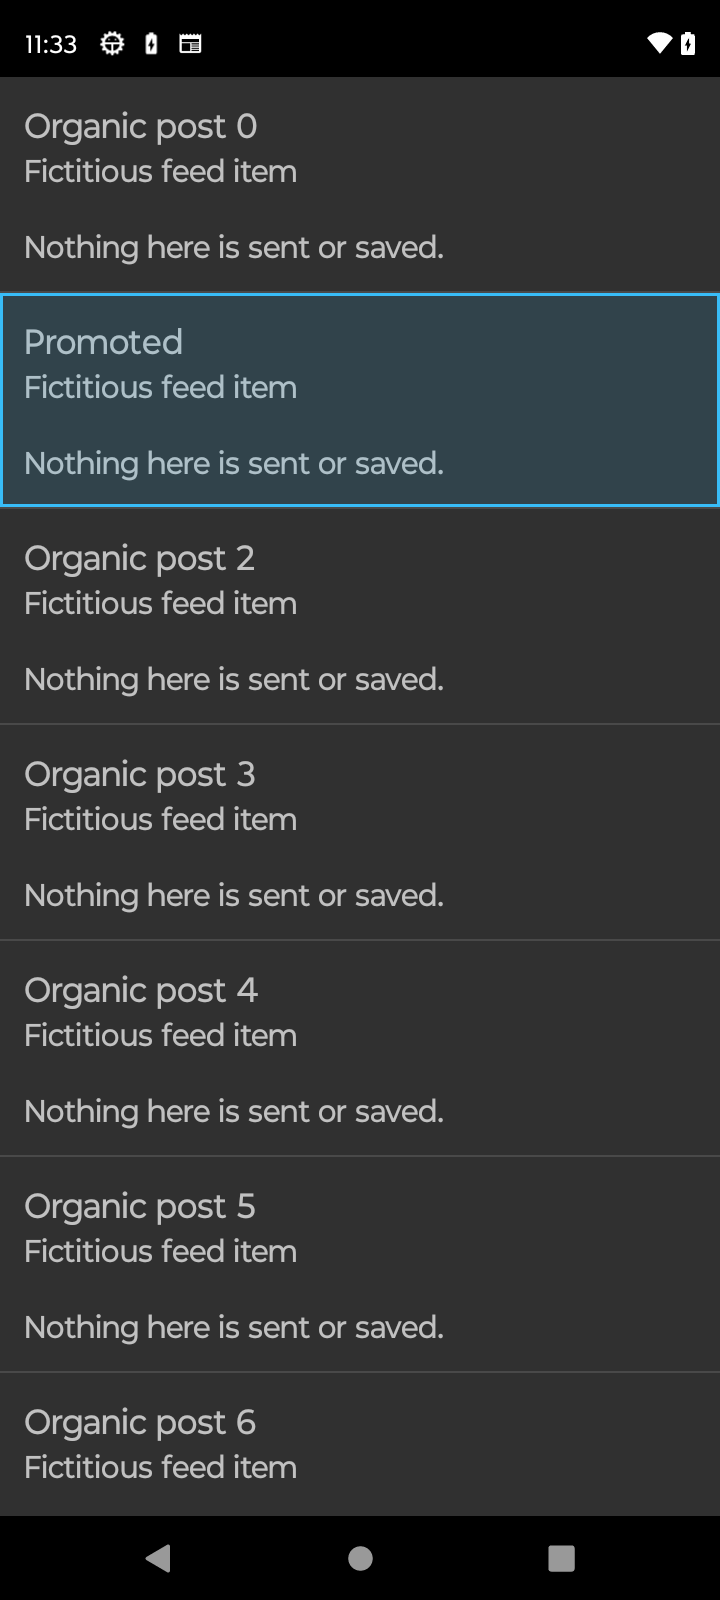
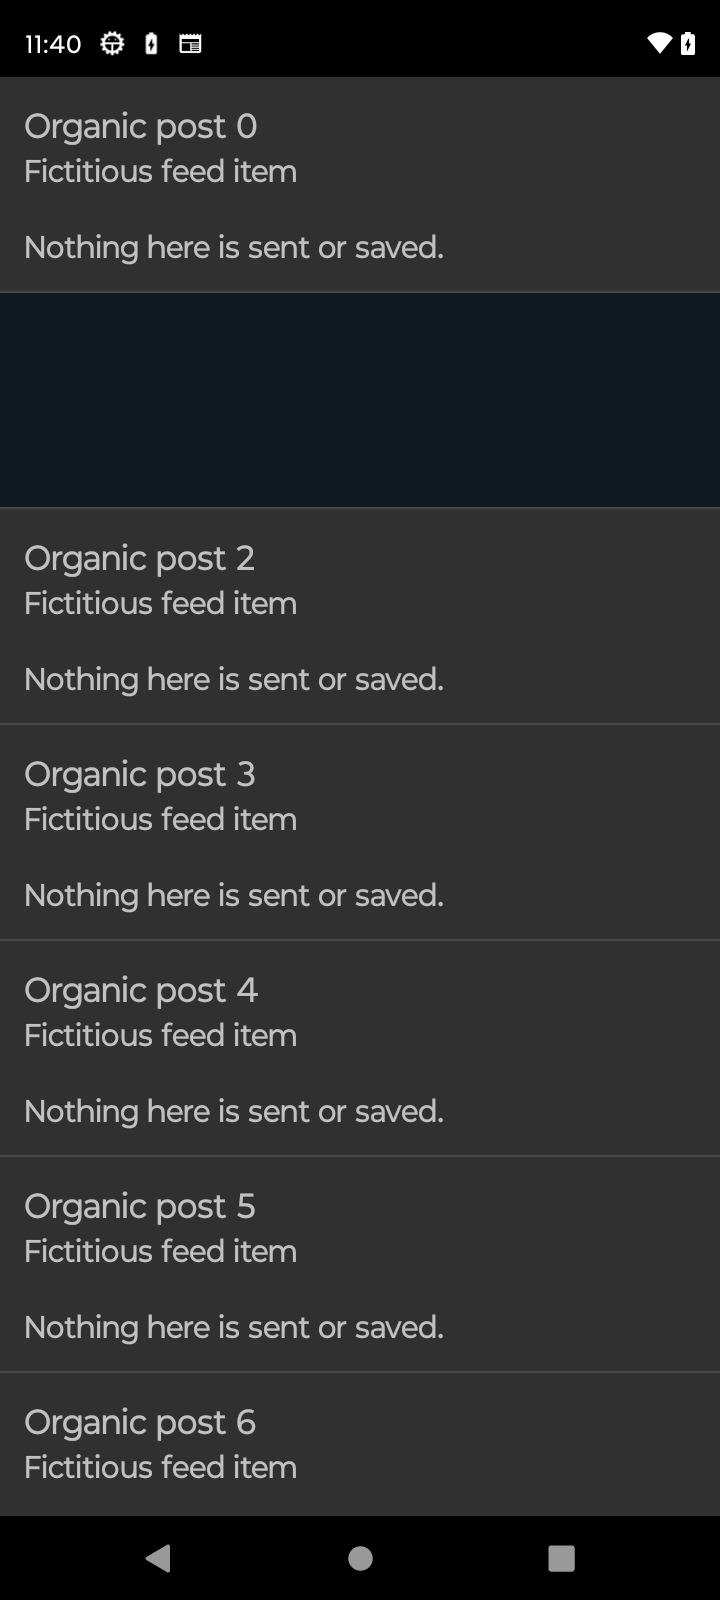
keyboard: Write for me (tone chips, app-aware email/text), image generation + commitContent insert, translate, catch me up, send-safety for codes/passwords/cards; no em dashes in the fallback
Snapshot also includes in-progress edits from the mods, memory-UI and proactive-live agents.

Changed region(s): [[0.0, 0.1562, 1.0, 0.3438], [0.0611, 0.0, 0.1222, 0.0312]]

diff --git a/web/app.js b/web/app.js
@@ -215,11 +215,14 @@ function renderSugg() {
   const items = [...S.sugg];
   const c = S.cal, mins = c ? Math.round((c.begin - Date.now()) / 60000) : 0;
   if (c && c.location && mins > 0 && mins <= 120 && !c.allDay) items.unshift({ id: 'leave', title: `Leave for ${short(c.title, 22)} soon`, detail: `${fmtT(c.begin)} · ${short(c.location, 30)}`, icon: 'car', goal: `Open directions to ${c.location} in Maps` });
+  const asked = S.asked && Date.now() - S.asked.at < 30 * 60000 ? S.asked.names.map((n) => n.toLowerCase().split(/\W/)[0]) : [];
+  const first = (n) => String(n || '').toLowerCase().split(/\W/)[0];
+  for (const c of (S.pending || []).filter((c) => !later.has(c.a.id + ':' + c.b.id) && asked.includes(first(c.a.name))).slice(0, 2)) items.unshift({ id: `same:${c.a.id}:${c.b.id}`, title: sameQ(c), detail: 'I asked which one · tap to answer', icon: 'spark', view: 'know' });
   $('#forK').textContent = items.length ? 'For you' : '';
   $('.feed').classList.toggle('none', !items.length);
   if (!items.length) return swap($('#sugg'), el('div', 'calm', `<svg width="14" height="14"><use href="#i-check"/></svg>All caught up`));
   swap($('#sugg'), ...items.slice(0, 4).map((it, i) => {
-    const b = el('button', 'glass sg'); b.style.animationDelay = i * .05 + 's';
+    const b = el('button', 'glass sg' + (it.view === 'know' ? ' same' : '')); b.style.animationDelay = i * .05 + 's';
     const ic = it.app && S.names[it.app] ? `<span class="appic">${ICOHTML(it.app)}</span>` : `<span class="appic" style="background:${it.icon === 'eye' || it.icon === 'shield' ? 'var(--green)' : it.icon === 'car' ? 'var(--blue)' : 'var(--purple)'}"><svg width="18" height="18"><use href="${SICON[it.icon] || '#i-spark'}"/></svg></span>`;
     b.innerHTML = `${ic}<div><div class="t">${esc(it.title)}</div><div class="s">${esc(it.detail || '')}</div></div><span class="orb working sm"></span><svg width="16" height="16" class="chev"><use href="#i-chev"/></svg>`;
     b.onclick = () => startSuggestion(it, b); return b;
@@ -229,6 +232,7 @@ function startSuggestion(it, b) {
   hap('heavy');
   if (it.view === 'blockers') return openBlockers();
   if (it.view === 'activity') return go(1);
+  if (it.view === 'know') return $('#toKnow').onclick();
   if (!it.goal) return;
   b.classList.add('busy');
   S.goal = it.goal; if (!send({ type: 'task.start', goal: it.goal })) return b.classList.remove('busy');
@@ -492,6 +496,57 @@ function renderPromises() {
 }
 $('#toPromises').onclick = () => { hap(); open('promises'); renderPromises(); send({ type: 'promises.list' }); };
 $('#promisesBack').onclick = () => close('promises');
+// ---------- what I know (agentd memory v2, MEMORY_V2=1): "same person?" cards, facts with the app and day they came from
+// (Fix edits inline, the x forgets), people with their linked cards. agentd takes all four messages from this app's uid only
+// (fromOwner), so a model can't settle an identity or edit a fact through here; its own tools need a card.
+const SRC = (s) => ({ calllog: 'Call log', sms: 'Texts', user: 'You told me', notifications: 'Notifications', contacts: 'Contacts' })[s] || String(s || '').replace(/^\w/, (c) => c.toUpperCase());
+const day = (ts) => ts ? new Date(ts).toLocaleDateString([], { month: 'short', day: 'numeric' }) : '';
+const GROUP = (f) => f.name !== 'you' ? 'People' : /^(favorite|likes|dislikes|prefers|diet|allergic)/.test(f.pred) ? 'Favorites' : /^(plan|wants|project)$/.test(f.pred) ? 'Plans' : 'Routines & life';
+const sameQ = (c) => `Is ${c.a.name}${c.a.apps?.[0] ? ` on ${c.a.apps[0]}` : ''} the same as ${c.b.name}${c.b.rel ? ` (your ${c.b.rel})` : c.b.apps?.[0] ? ` in ${c.b.apps[0]}` : ''}?`;
+const later = new Set(); // "Not sure": hidden until the launcher restarts
+function sameCard(c, cls = 'glass pw same') {
+  const r = el('div', cls, `<div class="qq">${esc(sameQ(c))}</div><span class="s">${esc(c.why.join(' · '))}</span><div class="acts"><button class="tag" data-a="yes">Yes, same person</button><button class="tag" data-a="no">No</button><button class="tag ghost" data-a="later">Not sure</button></div>`);
+  r.onclick = (e) => { const a = e.target.closest('[data-a]')?.dataset.a; if (!a) return; hap(); e.target.classList.add('on'); r.classList.add('gone');
+    if (a === 'later') later.add(c.a.id + ':' + c.b.id); else send({ type: 'memory.identity.confirm', a: c.a.id, b: c.b.id, same: a === 'yes' });
+    setTimeout(() => { S.pending = S.pending.filter((x) => x !== c); renderKnow(); renderSugg(); }, 350); };
+  return r;
+}
+function factRow(f) {
+  const old = f.status !== 'active', r = el('div', 'rowi fact' + (old ? ' old' : ''), `<div>${esc(f.text)}<span class="s">${esc(SRC(f.source))} · ${day(f.at)}${f.by === 'owner' ? ' · you fixed it' : ''}</span></div>` + (old ? '' : `<div class="r"><button class="tag" data-a="fix">Fix</button><button class="ib" data-a="forget" aria-label="Forget"><svg width="14" height="14"><use href="#i-x"/></svg></button></div>`));
+  r.onclick = (e) => { const a = e.target.closest('[data-a]')?.dataset.a; if (!a) return; hap();
+    if (a === 'forget') { r.classList.add('gone'); return send({ type: 'memory.correct', id: f.id, retract: true }); }
+    if (a === 'save') { const v = $('input', r).value.trim(); if (v && v !== f.obj) send({ type: 'memory.correct', id: f.id, obj: v }); else renderKnow(); return; }
+    $('div', r).innerHTML = `<input value="${esc(f.obj)}" autocomplete="off"><span class="s">${esc(f.name === 'you' ? 'You' : f.name)} · ${esc(f.pred.replace(/^favorite:/, 'favorite ').replace(/_/g, ' '))}</span>`;
+    $('.r', r).innerHTML = '<button class="tag b" data-a="save">Save</button>'; const i = $('input', r); i.focus(); i.onkeydown = (k) => k.key === 'Enter' && $('[data-a=save]', r).click(); };
+  return r;
+}
+function renderKnow() {
+  const box = $('#klist'), k = S.know, pend = (S.pending || []).filter((c) => !later.has(c.a.id + ':' + c.b.id));
+  $('#knowNote').textContent = $('#knowNote2').textContent = !k ? '' : pend.length ? `${pend.length} to confirm` : k.facts.length ? `${k.facts.length} facts` : k.v2 ? 'nothing yet' : 'off';
+  if (!$('#know').classList.contains('on')) return;
+  if (!k) return box.replaceChildren(el('div', 'empty', 'Offline'));
+  const parts = [];
+  if (pend.length) { const m = el('div', 'mod', `<div class="k">Same person?<span>${pend.length}</span></div><div class="provnote" style="margin-bottom:8px">Your answer settles it; I never guess before sending</div>`); m.append(...pend.map((c) => sameCard(c))); parts.push(m); }
+  const groups = new Map(); for (const f of k.facts) (groups.get(GROUP(f)) ?? groups.set(GROUP(f), []).get(GROUP(f))).push(f);
+  const about = el('div', 'mod', '<div class="k">About you<span>tap Fix or x · each line says where it came from</span></div>');
+  for (const g of ['Favorites', 'People', 'Plans', 'Routines & life']) if (groups.get(g)) about.append(Object.assign(el('div', 'k', g), { style: 'margin:10px 0 2px;color:var(--l2)' }), ...groups.get(g).map(factRow));
+  if (!k.facts.length) about.append(el('div', 'empty', k.v2 ? 'Nothing durable yet. Tell me things, or let the connectors read a little.' : 'Memory v2 is off on this phone (MEMORY_V2=1 in agentd.env)'));
+  parts.push(about);
+  const people = el('div', 'mod', `<div class="k">People<span>${k.people.length ? 'linked cards per person' : ''}</span></div>`);
+  people.append(...k.people.map((p) => { const why = (p.linked || []).map((l) => l.replace(/^(same person|possibly the same person): /, '').replace(/ \(\d+%\)$/, '')).join(' · ');
+    return el('div', 'rowi', `<span class="appic" style="background:var(--${p.relationship ? 'purple' : 'blue'})">${esc(p.name[0])}</span><div>${esc(p.name)}${p.relationship ? ` <span class="tag">your ${esc(p.relationship)}</span>` : ''}<span class="s">${esc([p.apps.slice(0, 3).join(' + '), p.also?.length ? `also "${p.also.slice(0, 2).join('", "')}"` : '', p.maybe?.length ? `maybe "${p.maybe.slice(0, 2).join('", "')}"` : '', why].filter(Boolean).join(' · '))}</span></div>`); }));
+  if (!k.people.length) people.append(el('div', 'empty', 'No one yet'));
+  parts.push(people);
+  box.replaceChildren(...parts);
+}
+on('ws.open', () => { send({ type: 'memory.about' }); send({ type: 'memory.identity' }); });
+on('memory.about', (m) => { if (m.ok === false) return; S.know = m; renderKnow(); });
+on('memory.identity', (m) => { if (m.ok === false) return; S.pending = m.pending || []; renderKnow(); renderSugg(); });
+on('memory.identity.confirm', (m) => { if (!m.ok) hap('heavy'); });
+on('memory.correct', (m) => { if (!m.ok) { hap('heavy'); renderKnow(); } });
+on('memory.asked', (m) => { S.asked = { names: m.names || [], at: Date.now() }; send({ type: 'memory.identity' }); }); // "which Joe?": the matching cards go to Home
+$('#toKnow').onclick = () => { hap(); open('know'); renderKnow(); send({ type: 'memory.about' }); send({ type: 'memory.identity' }); };
+$('#knowBack').onclick = () => close('know');
 // ---------- plugins: the owner's switches for groups of the agent's API tools (agentd/plugins.js) ----------
 // The list comes from agentd (names, summaries); a switch goes over the owner line to the broker (plugins.set), which takes it
 // only from this app's uid. agentd and models can't flip one. Off = the agent loses those API tools; it can still use the app on screen.

diff --git a/agentd/proactive.js b/agentd/proactive.js
@@ -22,7 +22,8 @@ import { open as openMemory, readable } from './memory/store.js';
 const FILE = join(process.env.AGENTOS_HOME || join(homedir(), '.agentos'), 'promises.json');
 const MAX = +(process.env.PROACTIVE_MAX || 3), [QS, QE] = (process.env.PROACTIVE_QUIET || '22-8').split('-').map(Number);
 const H = 36e5, DAY = 24 * H, WINDOW = 3 * DAY; // threads older than 3 days are left alone
-let io = null, items = [], calCards = [], db = null, debounce = null, scanning = Promise.resolve();
+let io = null, items = [], calCards = [], db = null, debounce = null, ripen = null, scanning = Promise.resolve();
+const served = new Set(); // goals of cards/list rows we showed: a task started from one carries model-drafted text (drafted())
 const live = new Map(); // thread id -> {app, pkg, conversation, group, key, msgs[]} from the notification feed
 const seen = new Map(); // thread id -> signature at the last scan (unchanged threads are not re-sent)
 
@@ -65,14 +66,18 @@ function threads() {
 }
 
 // ---------------------------------------------------------------- scan: one batched model call for what changed
-const sig = (t) => hash(t.msgs.map((m) => `${m.from}:${m.when}`).join('|'));
+// A question that just turned old enough (REPLY_AFTER) changes the signature, so the gate sees it again instead of never.
+const young = (t, now) => t.msgs.at(-1).from !== 'me' && now - t.msgs.at(-1).when < D.REPLY_AFTER;
+const sig = (t, now) => hash(t.msgs.map((m) => `${m.from}:${m.when}`).join('|') + young(t, now));
 export function scan(why = '') { return (scanning = scanning.then(() => scanNow(why)).catch((e) => log(`proactive scan failed: ${e.message}`))); }
 async function scanNow(why) {
-  const now = Date.now(), todo = [];
-  for (const t of threads().filter((t) => seen.get(t.id) !== sig(t)).sort((a, b) => b.msgs.at(-1).when - a.msgs.at(-1).when).slice(0, 40)) {
+  const now = Date.now(), todo = [], all = threads();
+  const wait = Math.min(...all.filter((t) => young(t, now)).map((t) => D.REPLY_AFTER - (now - t.msgs.at(-1).when)));
+  if (wait < Infinity) { clearTimeout(ripen); ripen = setTimeout(() => scan('question ripe'), wait + 2000); ripen.unref?.(); }
+  for (const t of all.filter((t) => seen.get(t.id) !== sig(t, now)).sort((a, b) => b.msgs.at(-1).when - a.msgs.at(-1).when).slice(0, 40)) {
     // Other people's text is untrusted: a thread with a flagged message is never sent to a model or turned into a card.
     const flagged = (await Promise.all(t.msgs.filter((m) => m.from !== 'me').map((m) => classify(m.text)))).some((g) => g.label !== 'benign');
-    seen.set(t.id, sig(t));
+    seen.set(t.id, sig(t, now));
     if (!flagged) todo.push({ ...t, msgs: t.msgs.map((m) => ({ ...m, text: m.text.replace(/(?<![\d.:])\d{4,8}(?![\d.:])/g, '[code]') })) });
   }
   if (!todo.length) return;
@@ -144,19 +149,23 @@ function goal(x) {
   if (x.kind === 'request') return `${where} asked me: "${short(x.quote, 140)}". Help me do it: do what you can on the phone and draft any message to ${x.who} for my approval. ${ask}`;
   return `I promised ${where}: "${short(x.quote, 140)}". Help me keep it: do what you can on the phone and draft the message to ${x.who} for my approval. ${ask}`;
 }
-const card = (x) => ({ id: `p:${x.id}`, app: x.pkg || undefined, icon: x.kind === 'reply' ? 'chat' : 'spark', goal: goal(x),
+const shown = (g) => { if (served.size > 500) served.clear(); served.add(g); return g; };
+export const drafted = (g) => !!g && served.has(g); // the reviewer never auto-approves a send from these (reviewer.js)
+const card = (x) => ({ id: `p:${x.id}`, app: x.pkg || undefined, icon: x.kind === 'reply' ? 'chat' : 'spark', goal: shown(goal(x)),
   title: x.kind === 'reply' ? `Reply to ${short(x.who, 24)}?` : x.what ? short(x.what, 40) : x.kind === 'commitment' ? `Your promise to ${short(x.who, 24)}` : `${short(x.who, 24)} asked you`,
   detail: x.kind === 'reply' || !x.what ? `${ago(x.at)}: ${short(x.quote, 44)}` : x.kind === 'request' ? `${short(x.who, 20)} asked · ${x.due ? `due ${dayLabel(x.due)}` : ago(x.at)}` : `You told ${short(x.who, 20)} · ${x.due ? `due ${dayLabel(x.due)}` : ago(x.at)}` });
 // Home: calendar first (time-bound), then the 2 most pressing promises. Cards you tapped hide for 2 h (the task is on it).
-export const cards = () => !io ? [] : [...calCards, ...items.filter((x) => x.state === 'open' && !(x.acted > Date.now() - 2 * H))
+export const cards = () => !io ? [] : [...calCards.map((c) => (shown(c.goal), c)), ...items.filter((x) => x.state === 'open' && !(x.acted > Date.now() - 2 * H))
   .sort((a, b) => RANK(a) - RANK(b) || a.at - b.at).slice(0, 2).map(card)].slice(0, 3);
 export const list = () => items.filter((x) => x.state === 'open' || x.state === 'snoozed' || x.closed > Date.now() - DAY)
   .sort((a, b) => (a.state !== 'open') - (b.state !== 'open') || RANK(a) - RANK(b) || a.at - b.at)
-  .map((x) => ({ ...x, dueLabel: x.due ? dayLabel(x.due) : '', ago: ago(x.at), goal: goal(x) }));
+  .map((x) => ({ ...x, dueLabel: x.due ? dayLabel(x.due) : '', ago: ago(x.at), goal: shown(goal(x)) }));
 
 // WebSocket messages from the launcher: {type:"promises.list"} | {type:"promises.update", id, action:"done"|"dismiss"|"snooze"|"open", hours?}
+// | {type:"promises.scan"} (PROACTIVE_STAGE=1 only: scan now; the result is pushed)
 export function handle(m) {
   if (!io) return { type: 'promises', items: [], off: true };
+  if (m.type === 'promises.scan') { if (!D.STAGE) return { type: 'promises', items: list(), error: 'scan on demand needs PROACTIVE_STAGE=1' }; scan('on demand'); } // the result is pushed as {type:"promises"}
   if (m.type === 'promises.update') {
     const x = items.find((y) => y.id === String(m.id || '').replace(/^p:/, ''));
     if (!x) return { type: 'promises', items: list(), error: 'no such item' };
@@ -165,24 +174,25 @@ export function handle(m) {
     else if (m.action === 'open') Object.assign(x, { state: 'open', closed: undefined, until: undefined });
     changed();
   }
-  return { type: 'promises', items: list(), budget: budget() };
+  return { type: 'promises', items: list(), budget: budget(), stage: D.STAGE };
 }
 
 // io: {codex, rpc, publish, onEvent, schedule} from server.js.
 export function init(deps) {
   io = deps;
   try { items = existsSync(FILE) ? JSON.parse(readFileSync(FILE, 'utf8')) : []; } catch (e) { log('promises.json unreadable', e.message); }
-  const soon = (why) => { clearTimeout(debounce); debounce = setTimeout(() => scan(why), 20_000); };
+  const soon = (why) => { clearTimeout(debounce); debounce = setTimeout(() => scan(why), D.STAGE ? 3000 : 20_000); };
   io.onEvent((e) => {
     if (e.type === 'notification.posted' && e.message) { note(e, e.from_me ? 'me' : e.group ? e.sender : e.conversation); soon('message'); }
     if (e.type === 'audit.append' && e.tool === 'notifications.reply' && e.ok) { // a reply we sent: find its thread by the audit's target
-      const t = [...live.values()].find((x) => x.pkg === e.pkg && `Reply to ${x.conversation}` === e.target);
-      if (t) { note({ ...t, text: e.text, when: Date.now() }, 'me'); soon('my reply'); }
+      const t = [...live.values()].find((x) => x.pkg === e.pkg && `Reply to ${x.conversation}` === e.target)
+        ?? { pkg: e.pkg, app: [...live.values()].find((x) => x.pkg === e.pkg)?.app, conversation: String(e.target || '').replace(/^Reply to /, '') };
+      if (t.conversation && e.text) { note({ ...t, text: e.text, when: Date.now() }, 'me'); soon('my reply'); }
     }
     if (e.type === 'task.update' && e.task?.goal) for (const x of items) if (x.state === 'open' && goal(x) === e.task.goal && !x.acted) { x.acted = Date.now(); changed(); }
   });
   setInterval(() => scan('memory sync'), 10 * 60_000).unref?.();
   setInterval(() => tick().catch((e) => log(`proactive tick failed: ${e.message}`)), 60_000).unref?.();
   setTimeout(() => { scan('start'); tick().catch(() => {}); }, 15_000).unref?.();
-  log(`proactive: on (${items.filter((x) => x.state === 'open').length} open, ${MAX} reminders/day, quiet ${QS}-${QE})`);
+  log(`proactive: on (${items.filter((x) => x.state === 'open').length} open, ${MAX} reminders/day, quiet ${QS}-${QE}, reply after ${D.REPLY_AFTER / 6e4} min${D.STAGE ? ', STAGE' : ''})`);
 }

diff --git a/agentd/server.js b/agentd/server.js
@@ -42,7 +42,7 @@ context.start(providers[cfg.provider], codex); // notification feed -> context b
 const memsync = connectors.start({ log }); // memory connectors: default grants, then whatever is due once a minute (see memory/SOURCES.md)
 if (cfg.reviewModel !== 'off') events.setReviewer((a) => { // grade every approval card; see reviewer.js for what it may do
   const turn = tasks.get(a.task_id);
-  reviewer.onApproval(codex, a, { turn, flagged: events.flagged.has(a.task_id) || !!turn?.alerted?.size }, events.publish);
+  reviewer.onApproval(codex, a, { turn, flagged: events.flagged.has(a.task_id) || !!turn?.alerted?.size, drafted: proactive.drafted(turn?.goal) }, events.publish);
 });
 if (process.env.REMOTE_MCP === '1') remote.start({ taskman, context, memory, guard: guardMemory, publish: events.publish, rpc }); // Grok / Dots over MCP (mcp-remote.js)
 if (cfg.reviewModel !== 'off') reviewer.grade(codex, { user: ['warm-up'], transcript: [], action: { tool: 'scroll' } }, 60_000); // first real review is warm (<4 s)
@@ -185,7 +185,7 @@ wss.on('connection', (ws, req) => {
       case 'task.cancel': return taskman.stop(String(msg.id || ''));
       case 'schedule.list': return send({ type: 'schedule.list', items: schedule.list() });
       case 'schedule.cancel': return schedule.cancel(String(msg.id || '')); // the owner's x on the home screen
-      case 'promises.list': case 'promises.update': return send(proactive.handle(msg)); // the launcher's Promises list (done / dismiss / snooze)
+      case 'promises.list': case 'promises.update': case 'promises.scan': return send(proactive.handle(msg)); // the launcher's Promises list (done / dismiss / snooze)
       case 'memory.consent': { // {source, action:"grant"|"revoke", scope?}: the launcher's toggle. Revoke deletes the source's data; its connector stops.
         const reply = (r) => send({ type: 'memory.consent', source: msg.source, action: msg.action, ...r });
         if (!(owner ??= fromOwner(req.socket))) return reply({ ok: false, error: 'only the owner (launcher) can change memory consent' });
@@ -210,6 +210,17 @@ wss.on('connection', (ws, req) => {
       case 'apps.remove': { // the owner's long-press on a home-screen app (launcher only); a model removes apps through remove_app
         if (!(owner ??= fromOwner(req.socket))) return send({ type: 'error', code: 'owner', message: 'only the launcher can remove apps' });
         return apps.call('remove_app', { app: String(msg.id || '') }, { emit() {} });
+      }
+      case 'memory.about': case 'memory.identity': case 'memory.identity.confirm': case 'memory.correct': { // the launcher's "What I know" screen
+        // (web/app.js): facts with their source, one-tap fix/forget, linked cards per person, "same person?" cards. Owner only, reads
+        // included: the facts go out raw (no [P:n]), and a model must never settle an identity or edit memory here (its tools need a card).
+        if (!(owner ??= fromOwner(req.socket))) return send({ type: msg.type, ok: false, error: 'only the owner (launcher) can see or change memory' });
+        const ctx = { cloud: false, actor: 'user:owner' }, who = (x) => { const p = memory.person(x.id, ctx); return { ...x, apps: p?.apps || [], rel: p?.relationship }; };
+        const about = () => send({ type: 'memory.about', v2: process.env.MEMORY_V2 === '1', ...memory.about(ctx), facts: memory.facts({ history: true }, ctx), people: memory.knownPeople(ctx) });
+        const identity = () => send({ type: 'memory.identity', pending: memory.identity.pending(ctx, 10).map((c) => ({ ...c, a: who(c.a), b: who(c.b) })) });
+        if (msg.type === 'memory.identity.confirm') { const link = memory.identity.confirm(+msg.a, +msg.b, !!msg.same, ctx); log(`memory identity #${msg.a}/#${msg.b} ${msg.same ? 'same' : 'different'} by owner`); send({ type: msg.type, ok: true, link }); return identity(), about(); }
+        if (msg.type === 'memory.correct') { const r = memory.correct(+msg.id, msg.retract ? { retract: true } : { obj: String(msg.obj || '') }, ctx); log(`memory fact #${msg.id} ${msg.retract ? 'forgotten' : 'corrected'} by owner: ${r.ok}`); send({ type: msg.type, id: msg.id, ...r }); return about(); }
+        return msg.type === 'memory.about' ? about() : identity();
       }
       case 'memory.sync': return send({ type: 'memory.sync', results: memsync.now(msg.source && String(msg.source)) }); // on-demand connector run (UI "Sync now")
       default:

diff --git a/agentd/memory/index.js b/agentd/memory/index.js
@@ -318,6 +318,15 @@ export const about = (ctx = {}) => brain.v2.about(dbOf(ctx), { cloud: ctx.cloud 
 export const identity = { pending: (ctx = {}, limit = 5) => brain.v2.pending(dbOf(ctx), limit), confirm: (a, b, same, ctx = {}) => brain.v2.confirm(dbOf(ctx), a, b, same, ctx.actor || 'user:owner'),
   target: (name, ctx = {}) => brain.v2.target(dbOf(ctx), String(name), { cloud: ctx.cloud !== false }) };
 export const correct = (factId, change, ctx = {}) => F.correct(dbOf(ctx), factId, change);
+// knownPeople(ctx) -> the launcher's People list: everyone with linked cards or durable facts, one entry per (hard) group.
+export function knownPeople(ctx = {}) {
+  const db = dbOf(ctx), seen = new Set(), out = [];
+  let ids = [];
+  brain.v2.pending(db, 1); // warms the identity tables and links (brain cache) so a cold start lists the same people as a warm one
+  try { ids = db.prepare(`SELECT a id FROM identity_link UNION SELECT b FROM identity_link UNION SELECT DISTINCT subj FROM fact WHERE status='active'`).all().map((r) => r.id); } catch {}
+  for (const id of ids) { const p = person(id, ctx); if (!p || p.id === db.me || seen.has(p.id)) continue; seen.add(p.id); out.push(p); }
+  return out.sort((a, b) => (b.also?.length || 0) - (a.also?.length || 0) || b.closeness - a.closeness);
+}
 export const syncFacts = (ctx = {}) => F.sync(dbOf(ctx), ctx);
 export const people = (ctx = {}) => brain.profile(dbOf(ctx), { cloud: ctx.cloud !== false }).find((f) => f.k === 'close_people') ? brain.recall(dbOf(ctx), 'people', { cloud: ctx.cloud !== false, k: 0 }).people : [];
 
@@ -326,7 +335,7 @@ export function contextLines(goal, ctx = {}) {
   const r = brain.context(dbOf(ctx), String(goal || ''), { cloud: ctx.cloud !== false });
   if (!r) return [];
   const q = (s, n = 160) => JSON.stringify(String(s).replace(/\s+/g, ' ').slice(0, n));
-  const lines = r.facts.map((f) => ({ text: `${f.fact}${f.cites.length ? ` [mem ${f.cites.join(',')}]` : ''}`, untrusted: false, fact: !f.profile }));
+  const lines = r.facts.map((f) => ({ text: `${f.fact}${f.cites.length ? ` [mem ${f.cites.join(',')}]` : ''}`, untrusted: false, fact: !f.profile, ambiguous: f.ambiguous }));
   for (const p of r.people) lines.push({ text: `${p.name}${p.also ? ` (also "${p.also.slice(0, 3).join('", "')}")` : ''}${p.maybe ? ` (possibly also "${p.maybe.slice(0, 3).join('", "')}", not confirmed)` : ''}: ${[...p.apps.slice(0, 4), ...p.phone.slice(0, 1).map((x) => `phone ${x}`)].join(', ')}`, untrusted: false });
   for (const e of r.events) lines.push({ text: `[${e.app || e.source} · ${e.when}${e.from ? ` · ${e.from}` : ''}${e.to && e.to !== 'you' ? ` → ${e.to}` : ''}${e.group ? ` · ${e.group}` : ''}${e.place ? ` @ ${e.place}` : ''}] ${e.title && e.kind !== 'message' ? e.title : ''}${e.text ? ` ${q(e.text)}` : ''} [mem ${e.id}]`, untrusted: !e.trusted && !!e.text, source: e.source });
   return lines;

diff --git a/agentd/proactive/test.js b/agentd/proactive/test.js
@@ -5,7 +5,7 @@ import { mkdtempSync } from 'node:fs';
 import { tmpdir } from 'node:os';
 import { join } from 'node:path';
 const home = mkdtempSync(join(tmpdir(), 'proactive-'));
-Object.assign(process.env, { AGENTOS_HOME: home, MEMORY_DB: join(home, 'memory.db'), PROACTIVE_QUIET: '0-0' }); // never quiet, for the test
+Object.assign(process.env, { AGENTOS_HOME: home, MEMORY_DB: join(home, 'memory.db'), PROACTIVE_QUIET: '0-0', PROACTIVE_REPLY_MIN: '0.05' }); // never quiet; questions ripen after 3 s, for the test
 const P = await import('../proactive.js');
 let fails = 0; const ok = (c, m) => { console.log(`${c ? 'ok  ' : 'FAIL'} ${m}`); if (!c) fails++; };
 const listeners = [], published = [], scheduled = [];
@@ -32,6 +32,7 @@ const cards = P.cards();
 ok(cards.length === 2 && cards.some((c) => c.title === 'Your promise to Priya') && cards.some((c) => c.title === 'Reply to Sam?'), `home cards: ${cards.map((c) => c.title).join(' | ')}`);
 ok(cards.every((c) => c.goal.length < 500 && /approval/.test(c.goal)), 'card goals ask for approval and fit a task goal');
 ok(published.some((e) => e.type === 'promises'), 'published promises to the UIs');
+ok(cards.every((c) => P.drafted(c.goal)) && !P.drafted('Text Sam that I am running late'), 'tasks from cards are marked drafted (no reviewer auto-approve); typed goals are not');
 
 dnd = 'on'; await P.tick(); ok(scheduled.length === 0 && P.budget().used === 0, 'DND on: no reminder, budget untouched');
 dnd = 'off'; await P.tick(); ok(scheduled.length === 1 && scheduled[0].t.origin === 'proactive' && /^Remind me: /.test(scheduled[0].a.prompt), `DND off: one reminder via schedule.js (${scheduled[0]?.a.prompt})`);
@@ -51,5 +52,9 @@ P.handle({ type: 'promises.update', id: pr.id, action: 'done' });
 ok(P.handle({ type: 'promises.list' }).items.find((x) => x.id === pr.id).state === 'done', 'done');
 msg('Priya', "on it, I'll send them today", now - yday9, true); await P.scan('test 3');
 ok(P.handle({ type: 'promises.list' }).items.filter((x) => x.who === 'Priya').every((x) => x.state === 'done'), 'done stays done after a rescan');
+msg('Lee', 'Are you free Sunday for brunch?', 1000); await P.scan('test 4'); // 1 s old: too young for a nudge
+ok(!P.handle({ type: 'promises.list' }).items.some((x) => x.who === 'Lee'), 'a fresh question: no card yet');
+await new Promise((r) => setTimeout(r, 5500)); // no new message: the ripen timer must rescan it on its own
+ok(P.handle({ type: 'promises.list' }).items.some((x) => x.who === 'Lee' && x.kind === 'reply'), 'the same question once old enough: Reply to Lee? (rescanned by itself)');
 console.log(fails ? `${fails} failed` : 'all passed');
 process.exit(fails ? 1 : 0);

diff --git a/agentd/reviewer.js b/agentd/reviewer.js
@@ -66,13 +66,13 @@ export async function grade(codex, req, ms = cfg.reviewMs) {
 //   the task has no guard flag, the broker gave no fingerprint reason, and the reviewer saw no taint.
 // - block: approval.deny. fingerprint (money/passwords only): approval.escalate, which turns an ordinary card fingerprint-only.
 // - tap / human: the person decides on the card.
-export async function onApproval(codex, a, { turn, flagged }, emit) {
+export async function onApproval(codex, a, { turn, flagged, drafted }, emit) {
   if (a.kind && a.kind !== 'action') return; // lease cards are the user's own tap; nothing to grade
   if (a.escalated) return; // our own escalation, re-announced by the broker: already graded
   const ordinary = !!a.allowed_channels?.includes('reviewer'), fpOnly = !a.allowed_channels?.includes('tap');
   const v = await grade(codex, { user: turn ? turn.asks || [turn.goal] : [], transcript: turn?.log || [],
     action: { tool: a.tool, app: a.pkg, args: { target: a.target, text: a.text || undefined } }, floor: ordinary ? 'auto' : fpOnly ? 'fingerprint' : 'tap' });
-  const held = fpOnly ? 'fingerprint-only approval' : !ordinary ? `needs a person: ${a.held_because || 'broker'}` : turn?.remote ? `request from ${turn.remote}, not the owner` : flagged ? 'guard flag in this task' : a.fingerprint_because ? `broker: ${a.fingerprint_because}` : v.tainted ? 'tainted content' : null;
+  const held = fpOnly ? 'fingerprint-only approval' : !ordinary ? `needs a person: ${a.held_because || 'broker'}` : turn?.remote ? `request from ${turn.remote}, not the owner` : drafted ? 'a proactive card: the assistant wrote this text, not you' : flagged ? 'guard flag in this task' : a.fingerprint_because ? `broker: ${a.fingerprint_because}` : v.tainted ? 'tainted content' : null;
   let action = v.decision === 'auto' && held ? `left to the user (${held})` : 'left to the user';
   const call = async (method, params, did) => ((await rpc(method, { approval_id: a.approval_id, channel: 'reviewer', ...params }, 10_000)
     .catch((e) => ({ ok: false, reason: e.message }))).ok === false ? `${method} refused` : did);

diff --git a/web/index.html b/web/index.html
@@ -76,6 +76,7 @@
       <button class="mod link" id="toBlockers"><svg width="18" height="18"><use href="#i-shield"/></svg><b>Blockers</b><span class="k" id="blockNote"></span></button>
       <button class="mod link" id="toVault"><svg width="18" height="18"><use href="#i-lock"/></svg><b>Passwords</b><span class="k" id="vaultNote"></span></button>
       <button class="mod link" id="toMods"><svg width="18" height="18"><use href="#i-mod"/></svg><b>Mods</b><span class="k" id="modNote"></span></button>
+      <button class="mod link" id="toKnow"><svg width="18" height="18"><use href="#i-eye"/></svg><b>What I know</b><span class="k" id="knowNote"></span></button>
       <button class="mod link" id="toMemory"><svg width="18" height="18"><use href="#i-spark"/></svg><b>Memory</b><span class="k" id="memNote2"></span></button>
       <button class="mod link" id="toPlugins"><svg width="18" height="18"><use href="#i-plug"/></svg><b>Plugins</b><span class="k" id="plugNote"></span></button>
       <button class="mod link" id="toRemote"><svg width="18" height="18"><use href="#i-cloud"/></svg><b>Remote</b><span class="k" id="remoteNote"></span></button>
@@ -114,6 +115,12 @@
 <section class="over slide" id="promises">
   <div class="bar"><button class="back" id="promisesBack"><svg width="24" height="24"><use href="#i-back"/></svg></button><h2 class="title">Promises</h2><span class="k" id="promisesNote"></span></div>
   <div class="scroll body" id="prlist"></div>
+</section>
+
+<!-- WHAT I KNOW (agentd memory v2, MEMORY_V2=1): "same person?" cards, facts with their source (fix / forget in a tap), people with their linked cards -->
+<section class="over slide" id="know">
+  <div class="bar"><button class="back" id="knowBack"><svg width="24" height="24"><use href="#i-back"/></svg></button><h2 class="title">What I know</h2><span class="k" id="knowNote2"></span></div>
+  <div class="scroll body" id="klist"></div>
 </section>
 
 <!-- PASSWORDS (vault) -->

diff --git a/agentd/tools.js b/agentd/tools.js
@@ -56,7 +56,7 @@ const MOD_TOOLS = {
 MOD_TOOLS.mod_inspect = MOD_TOOLS.app_mod_targets;
 MOD_TOOLS.mod_list = MOD_TOOLS.app_mod_list;
 MOD_TOOLS.mod_remove = MOD_TOOLS.app_mod_remove;
-const modSpec = { type: 'object', description: 'Strict declarative spec. Mask: {id,package,label,action:{type:"mask",match:{text:"Promoted"},scope:"item",color:"#101820"}}. Match exactly one of text (exact, case-insensitive), id (short view id), class. scope node or item (containing scroll item). No code/regex. Button specs: see app_mod_apply.' };
+const modSpec = { type: 'object', description: 'Strict declarative spec. Mask: {id,package,label,action:{type:"mask",match:{text:"Promoted"},scope:"item",color:"#101820"}}. Match exactly one of text (exact, case-insensitive), id (short view id), class. scope node or item (containing scroll item). No code/regex. Button specs: see mod_apply examples.' };
 MOD_TOOLS.mod_preview = { method: 'app.mod.preview', tier: 'read', schema: obj({ spec: modSpec }, ['spec']),
   description: 'Dry-run a mod in the foreground app: highlight matched rectangles for 3 seconds. No app actions. Required before apply; receipt binds this exact spec for 5 minutes. Zero matches cannot apply.' };
 MOD_TOOLS.mod_apply = { method: 'app.mod.apply', tier: 'outward', schema: obj({ spec: modSpec }, ['spec']),

diff --git a/agentd/events.js b/agentd/events.js
@@ -8,7 +8,7 @@ import { phoneAuth, rpc } from './tools.js';
 export const FORWARD = new Set(['mod.changed', 'approval.shown', 'approval.resolved', 'guard.flag', 'task.state', 'audit.append', 'review',
   'task.update', 'tool.request', 'tool.result', 'guard.alert', 'task.started', 'approval.needed',
   'notification.posted', 'rule', 'tracker.blocked', 'vault.changed', 'schedule.list', 'plugins.changed', 'remote.read',
-  'apps.changed', 'tool.progress', 'promises']); // 5th: micro-apps (apps.js) and a long tool's progress // 4th: Blockers and Passwords views refresh live // 3rd line: the notification feed and reply rules (context.js) // 2nd line: background tasks (tasks.js)
+  'apps.changed', 'tool.progress', 'promises', 'memory.asked']); // 5th: micro-apps (apps.js) and a long tool's progress // 4th: Blockers and Passwords views refresh live // 3rd line: the notification feed and reply rules (context.js) // 2nd line: background tasks (tasks.js)
 export const pending = new Map(); // approval_id -> approval.shown payload
 export const flagged = new Set(); // task_ids the broker raised guard.flag for
 export const state = { connected: false, answeredAt: 0 };

diff --git a/agentd/memory/facts.js b/agentd/memory/facts.js
@@ -123,7 +123,7 @@ export function list(db, { about = [], q, history = false, cloud = true, srcs, l
   if (words.length) rows = rows.filter((f) => { const s = `${f.pred} ${say(f)}`.toLowerCase(); return words.some((w) => s.includes(w)); }).slice(0, limit);
   const red = (s) => (cloud ? S.redact(db, s) : s);
   return rows.map((f) => ({ id: f.id, subj: f.subj, name: f.name === 'Me' ? 'you' : red(f.name), pred: f.pred, obj: red(f.obj), text: `${f.name === 'Me' ? 'You' : red(f.name)} ${say({ ...f, obj: red(f.obj) })}${f.status === 'active' ? (f.valid_from && SINGLE.test(f.pred) ? ` (since ${when(f.valid_from)})` : '') : ` (${f.status === 'superseded' ? 'until' : 'retracted'} ${when(f.valid_to)})`}`,
-    since: f.valid_from, until: f.valid_to, status: f.status, event_id: f.event_id, by: f.by, conf: f.conf, kind: f.kind }));
+    since: f.valid_from, until: f.valid_to, status: f.status, event_id: f.event_id, by: f.by, conf: f.conf, kind: f.kind, source: f.source, at: f.observed_at }));
 }
 
 // Owner controls: edit a fact's value, or retract it (kept as a row, never shown again).

diff --git a/web/app.css b/web/app.css
@@ -340,3 +340,9 @@ body{position:fixed;inset:0}
 .sorb.muted .core{filter:grayscale(1) brightness(.6);animation:none}
 /* promises (proactive.js) */
 .pw.off{opacity:.5}.pw .q{font-weight:500;color:var(--l3)}.pw.prom .tag+.tag,.pw.prom .tag+.ib{margin-left:-5px}
+
+/* What I know (memory v2): calm cards, no red. .same = one-tap identity card; .fact rows fix inline */
+.same{display:block}.same .qq{font-size:15px;font-weight:600;letter-spacing:-.01em;line-height:1.3}.same .s{white-space:normal;margin:4px 0 8px}
+.same .acts{display:flex;gap:6px}.same .acts .tag.on{background:var(--blue);color:#fff}.same .acts .tag.ghost{background:rgba(255,255,255,.07);color:var(--l3)}
+.rowi.fact>div{flex:1}.rowi.fact .r .tag{padding:5px 10px}.rowi.fact input{width:100%;font:inherit;font-size:14px;color:var(--l1);background:rgba(255,255,255,.1);border:0;border-radius:8px;padding:6px 9px;outline:none;margin-bottom:3px}
+.rowi.fact.old{opacity:.5}.rowi.gone{opacity:0;transition:opacity .35s}.sg.same .t{white-space:normal}

diff --git a/agentd/plugins.js b/agentd/plugins.js
@@ -66,7 +66,7 @@ export const PLUGINS = [
     route: /\b(apps?|build|make|create|track|tracker|tracking|log|logger|counter|dice|roller|habits?|streaks?|widget|intake)\b/,
     prompt: '- Apps: when the user wants to track, log, count, roll or time something, or asks for an app/tool, call build_app once with their request (no questions; sensible defaults). "Add X to my <name> app" = build_app with update:"<name>". It takes about half a minute; then say it is on their home screen.' },
   { id: 'mods', name: 'Mods', on: true, summary: 'Preview and mask promoted app content, simplify screens, add safe buttons, list/remove mods.',
-    tools: ['mod_inspect', 'mod_preview', 'mod_apply', 'mod_list', 'mod_remove', 'mod_disable', 'app_mod_apply', 'app_mod_targets', 'app_mod_list', 'app_mod_remove'],
+    tools: ['mod_inspect', 'mod_preview', 'mod_apply', 'mod_list', 'mod_remove', 'mod_disable'],
     route: /\b(mods?|buttons?|promoted|sponsored|simplify|restyle|hide|reorder|banners?)\b/,
     prompt: '' },
 ];
